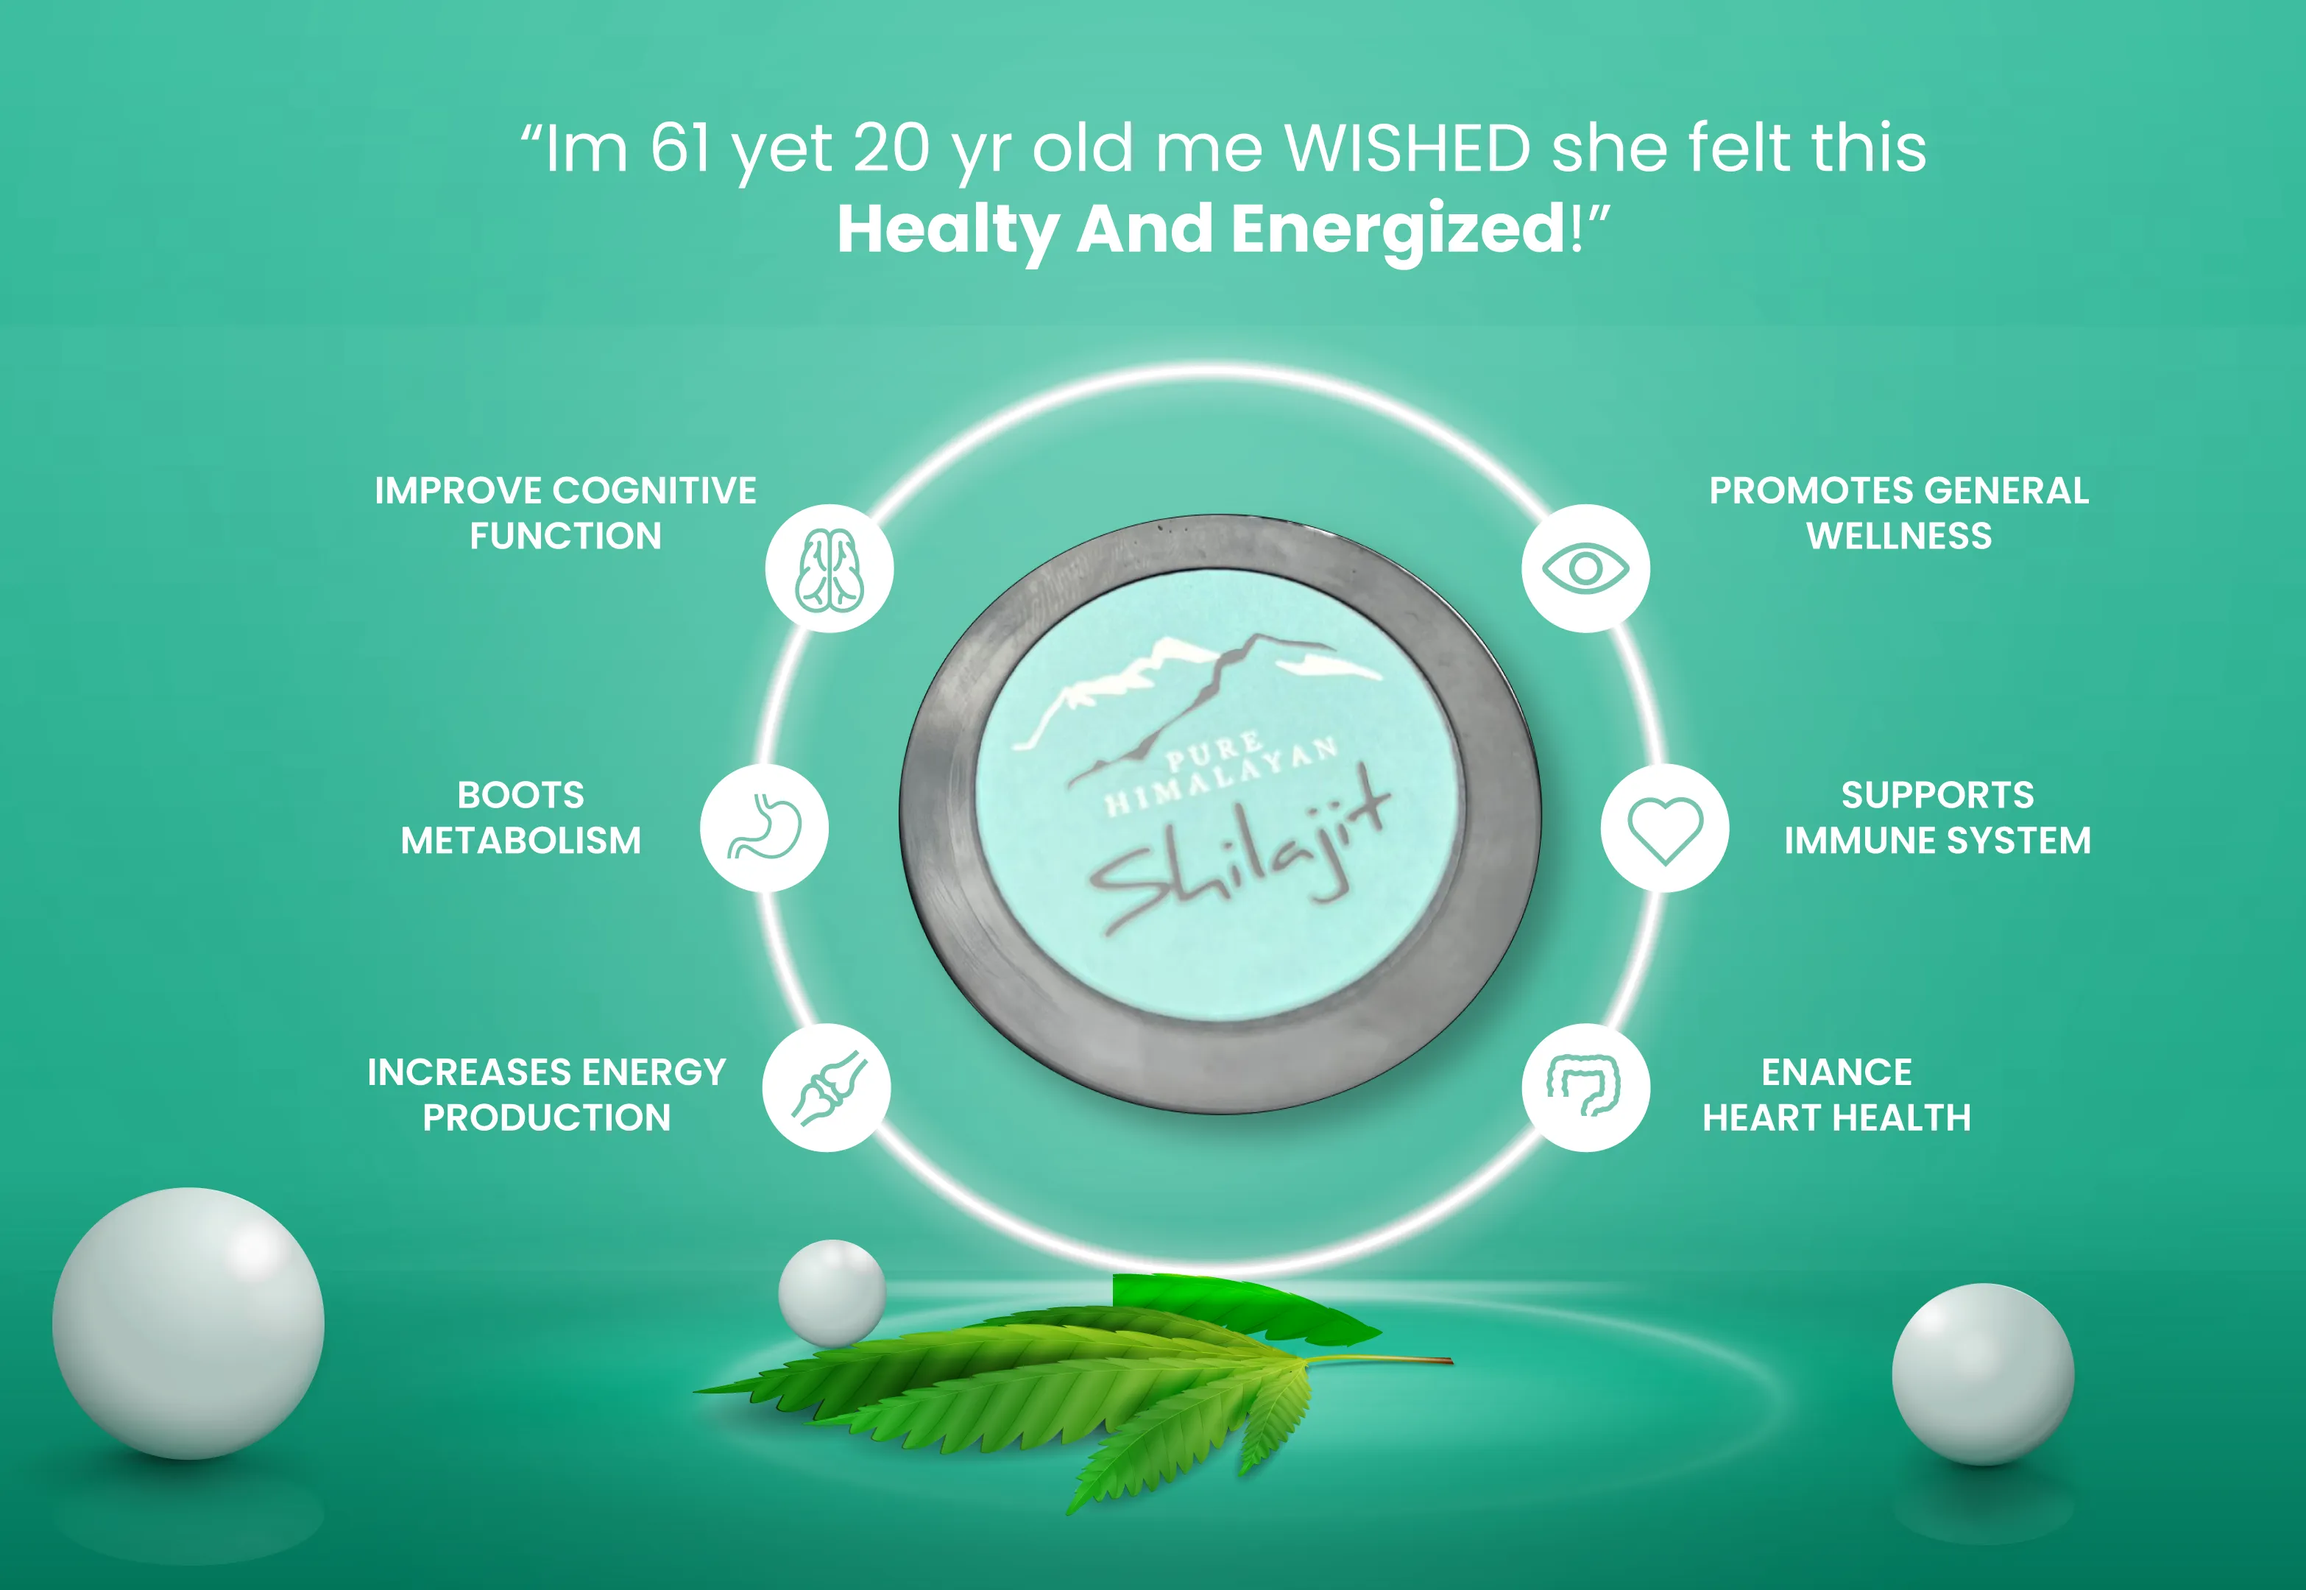
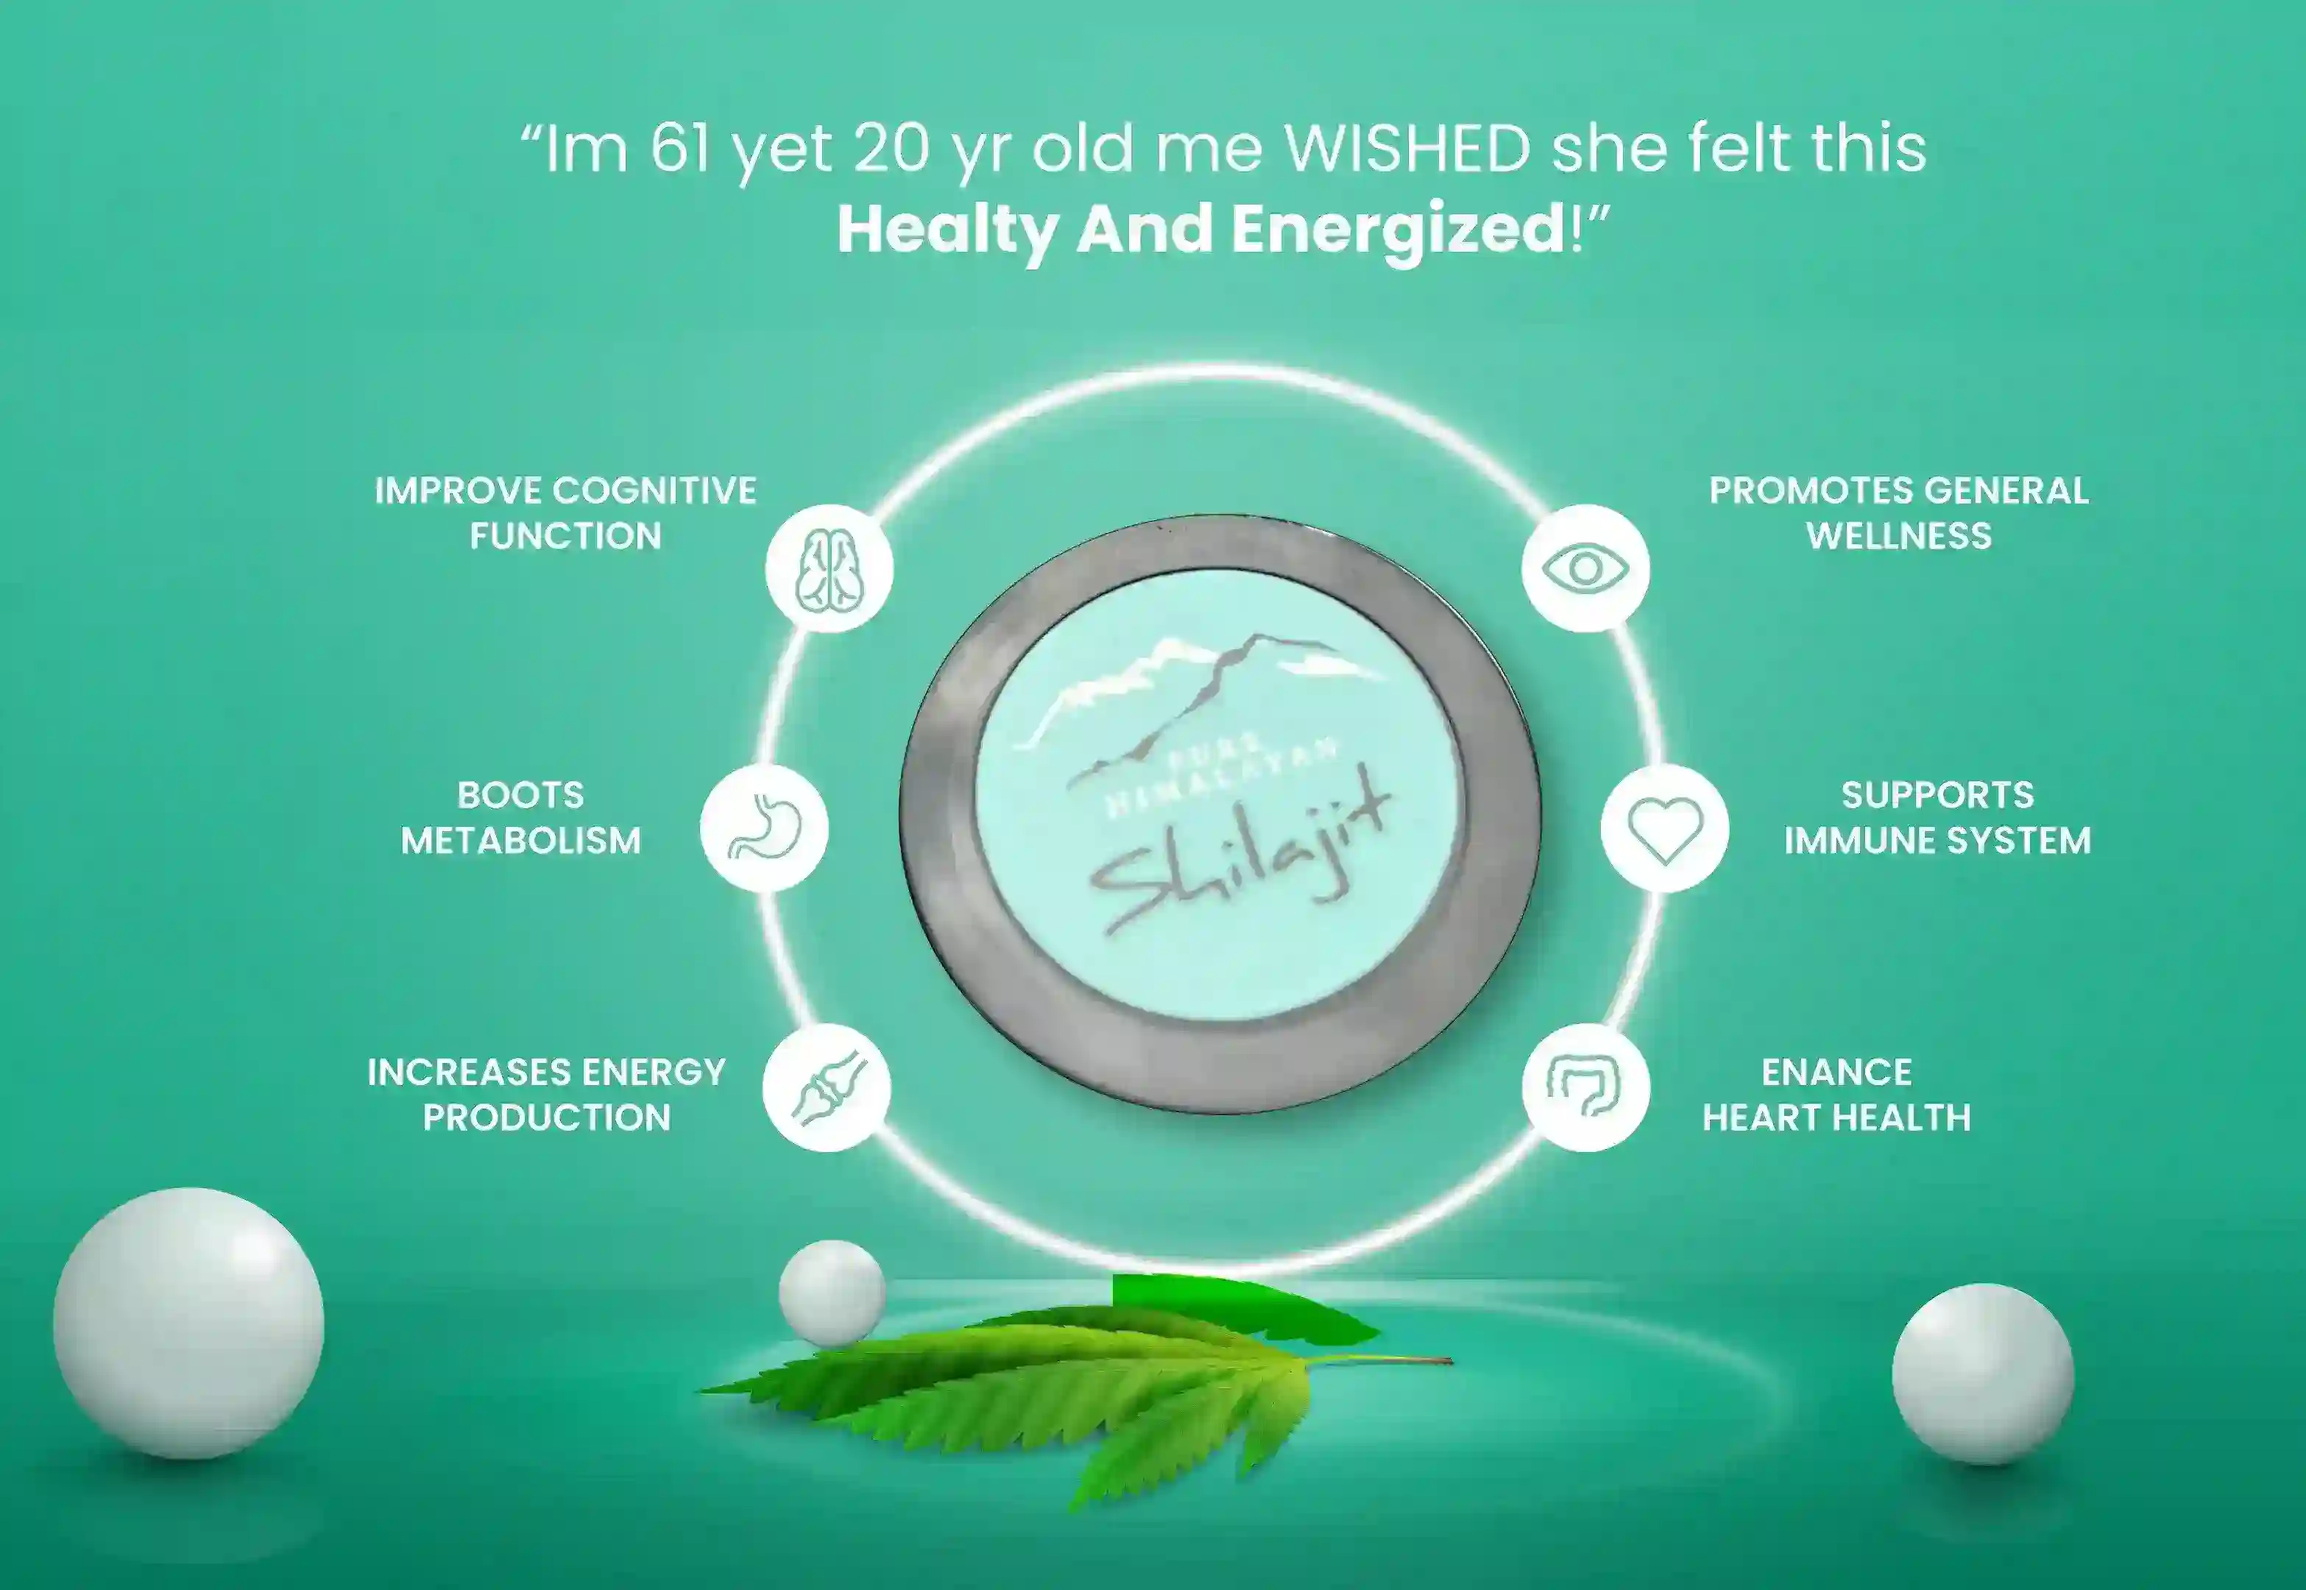
optimize images 2

diff --git a/src/components/Product/FeaturesSection.tsx b/src/components/Product/FeaturesSection.tsx
@@ -13,7 +13,7 @@ export default function FeaturesSection() {
           flexDir={{ base: "column", lg: "row" }}
         >
           <Stack w={{ lg: "50%" }} zIndex={1} justifyContent={"center"}>
-            <Image src={InfoImage} alt="Features Of Shilajit" />
+            <Image src={InfoImage} alt="Features Of Shilajit" loading="lazy" />
           </Stack>
           <Box w={{ lg: "50%" }}>
             <Heading

diff --git a/src/components/Product/Carousel.tsx b/src/components/Product/Carousel.tsx
@@ -62,6 +62,7 @@ export default function Carousel() {
                 <Image
                   src={img}
                   alt={"Omiearth 100% Pure Himalayan Shilajit Gold Organic Soft Resin Enriched with Fulvic Acid"}
+                  loading="lazy"
                   //maxWidth={{ md: "90%" }}
                 />
               </Flex>

diff --git a/src/components/Product/VideoPlayer.tsx b/src/components/Product/VideoPlayer.tsx
@@ -40,6 +40,7 @@ const VideoPlayer = () => {
           maxW={{base:"40px",sm:"60px",lg:"unset"}}
           visibility={!isPlaying ? "visible" : "hidden"}
           alt="Shilajit Benefits"
+          loading="lazy"
         />
       </Box>
       <Box

diff --git a/src/components/Footer.tsx b/src/components/Footer.tsx
@@ -11,7 +11,7 @@ import {
   SimpleGrid,
   Stack,
 } from "@chakra-ui/react";
-import bgImage from "../assets/background.png";
+import bgImage from "../assets/webp/background.webp";
 import {
   FaFacebook,
   FaGooglePlus,
